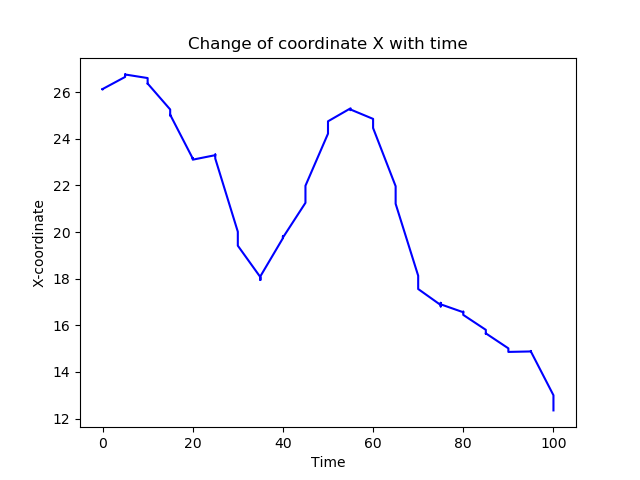
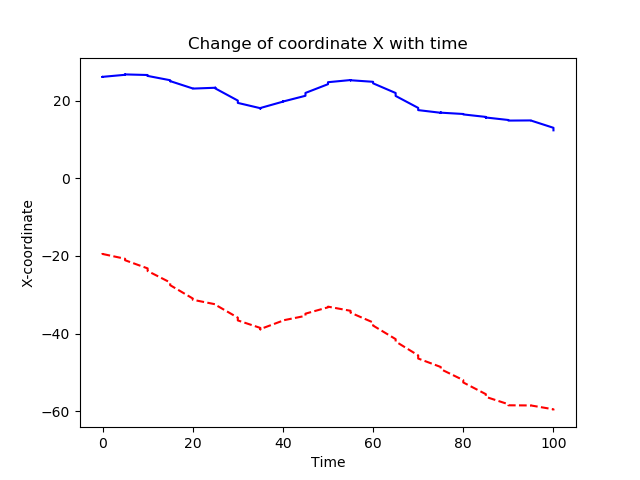
two graphs x

diff --git a/nodes/tf_reader.py b/nodes/tf_reader.py
@@ -39,7 +39,9 @@ def create_graphs(bag):
                 imu_x.append(transform_imu.transform.translation.x)
                 imu_y.append(transform_imu.transform.translation.y)
                 imu_z.append(transform_imu.transform.translation.z)
+
                 saved_times.append(save_time)
+
                 transform_map_os_sensor = buffer.lookup_transform_full("map", time, "os_sensor", time, "map",
                                                                        rospy.Duration(1))
                 matrix = numpify(transform_map_os_sensor.transform)
@@ -50,7 +52,7 @@ def create_graphs(bag):
                 continue
     if len(cloud_combined) > 0:
         create_graph_tf_and_point_cloud(cloud_combined, icp_x, icp_y)
-        create_graph_x_coord_and_time(icp_x, saved_times)
+        create_graph_x_coord_and_time(icp_x, imu_x, saved_times)
         create_graph_y_coord_and_time(icp_y, saved_times)
         create_graph_z_coord_and_time(icp_z, saved_times)
 
@@ -93,13 +95,14 @@ def create_graph_tf_and_point_cloud(cloud_combined, coord_x_robot, coord_y_robot
     plt.close()
 
 
-def create_graph_x_coord_and_time(coord_x_robot, saved_times):
+def create_graph_x_coord_and_time(icp_x, imu_x, saved_times):
     output_path = "/home/robert/catkin_ws/src/bag_crawler/nodes/web_server/coord_x_and_time.png"
     fig, ax = plt.subplots()
     plt.xlabel('Time')
     plt.ylabel('X-coordinate')
     plt.title("Change of coordinate X with time")
-    ax.plot(saved_times, coord_x_robot, color='blue')
+    ax.plot(saved_times, icp_x, color='blue')
+    ax.plot(saved_times, imu_x, color='red', linestyle='--')
     plt.savefig(output_path)
     plt.close()
 
